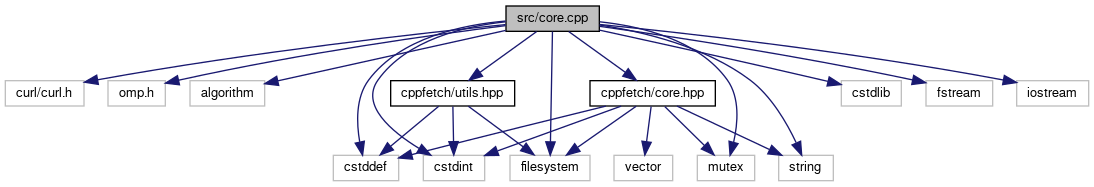
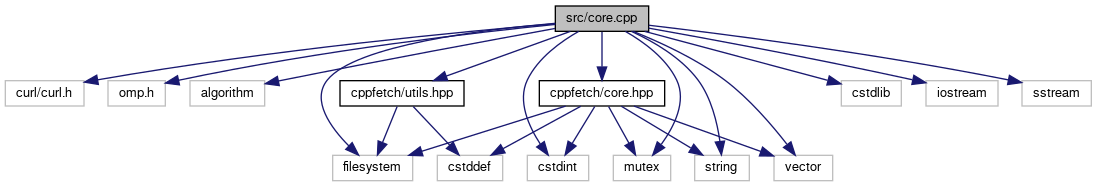
Update docs

diff --git a/docs/core_8hpp_source.html b/docs/core_8hpp_source.html
@@ -20,7 +20,7 @@
 <table cellspacing="0" cellpadding="0">
  <tbody>
  <tr style="height: 56px;">
-  <td id="projectlogo"><img alt="Logo" src="logo.svg"/></td>
+  <td id="projectlogo"><img alt="Logo" src="logo.png"/></td>
   <td id="projectalign" style="padding-left: 0.5em;">
    <div id="projectname">cppfetch
    </div>
@@ -71,59 +71,51 @@ $(function() {
 <div class="title">core.hpp</div>  </div>
 </div><!--header-->
 <div class="contents">
-<a href="core_8hpp.html">Go to the documentation of this file.</a><div class="fragment"><div class="line"><a name="l00001"></a><span class="lineno">    1</span>&#160;<span class="comment">// Altro?</span></div>
-<div class="line"><a name="l00002"></a><span class="lineno">    2</span>&#160; </div>
-<div class="line"><a name="l00003"></a><span class="lineno">    3</span>&#160;<span class="comment">// Finisci di settare IWYU</span></div>
-<div class="line"><a name="l00004"></a><span class="lineno">    4</span>&#160;<span class="comment">// Docs per README</span></div>
-<div class="line"><a name="l00005"></a><span class="lineno">    5</span>&#160;<span class="comment">// Altri file di sistema</span></div>
-<div class="line"><a name="l00006"></a><span class="lineno">    6</span>&#160;<span class="comment">// Zenodo</span></div>
-<div class="line"><a name="l00007"></a><span class="lineno">    7</span>&#160;<span class="comment">// progress bars</span></div>
-<div class="line"><a name="l00008"></a><span class="lineno">    8</span>&#160; </div>
-<div class="line"><a name="l00009"></a><span class="lineno">    9</span>&#160;<span class="preprocessor">#pragma once</span></div>
-<div class="line"><a name="l00010"></a><span class="lineno">   10</span>&#160;<span class="preprocessor">#ifndef CPPFETCH_CORE_HPP</span></div>
-<div class="line"><a name="l00011"></a><span class="lineno"><a class="line" href="core_8hpp.html#ae3b887eb3a86288db9953d2408d771b6">   11</a></span>&#160;<span class="preprocessor">#define CPPFETCH_CORE_HPP</span></div>
-<div class="line"><a name="l00012"></a><span class="lineno">   12</span>&#160; </div>
-<div class="line"><a name="l00013"></a><span class="lineno">   13</span>&#160;<span class="preprocessor">#include &lt;cstddef&gt;</span></div>
-<div class="line"><a name="l00014"></a><span class="lineno">   14</span>&#160;<span class="preprocessor">#include &lt;cstdint&gt;</span></div>
-<div class="line"><a name="l00015"></a><span class="lineno">   15</span>&#160;<span class="preprocessor">#include &lt;filesystem&gt;</span></div>
-<div class="line"><a name="l00016"></a><span class="lineno">   16</span>&#160;<span class="preprocessor">#include &lt;mutex&gt;</span></div>
-<div class="line"><a name="l00017"></a><span class="lineno">   17</span>&#160;<span class="preprocessor">#include &lt;string&gt;</span></div>
-<div class="line"><a name="l00018"></a><span class="lineno">   18</span>&#160;<span class="preprocessor">#include &lt;vector&gt;</span></div>
-<div class="line"><a name="l00019"></a><span class="lineno">   19</span>&#160; </div>
-<div class="line"><a name="l00020"></a><span class="lineno">   20</span>&#160;<span class="keyword">namespace </span><a class="code" href="namespacecppfetch.html">cppfetch</a> {</div>
-<div class="line"><a name="l00021"></a><span class="lineno"><a class="line" href="classcppfetch_1_1cppfetch.html">   21</a></span>&#160;    <span class="keyword">class </span><a class="code" href="namespacecppfetch.html">cppfetch</a> {</div>
-<div class="line"><a name="l00022"></a><span class="lineno">   22</span>&#160;        <span class="keyword">public</span>:</div>
-<div class="line"><a name="l00023"></a><span class="lineno">   23</span>&#160; </div>
-<div class="line"><a name="l00024"></a><span class="lineno">   24</span>&#160;            <span class="comment">// Constructors</span></div>
-<div class="line"><a name="l00025"></a><span class="lineno">   25</span>&#160;            <span class="keyword">explicit</span> <a class="code" href="namespacecppfetch.html">cppfetch</a>();</div>
+<a href="core_8hpp.html">Go to the documentation of this file.</a><div class="fragment"><div class="line"><a name="l00001"></a><span class="lineno">    1</span>&#160;<span class="preprocessor">#pragma once</span></div>
+<div class="line"><a name="l00002"></a><span class="lineno">    2</span>&#160;<span class="preprocessor">#ifndef CPPFETCH_CORE_HPP</span></div>
+<div class="line"><a name="l00003"></a><span class="lineno"><a class="line" href="core_8hpp.html#ae3b887eb3a86288db9953d2408d771b6">    3</a></span>&#160;<span class="preprocessor">#define CPPFETCH_CORE_HPP</span></div>
+<div class="line"><a name="l00004"></a><span class="lineno">    4</span>&#160; </div>
+<div class="line"><a name="l00005"></a><span class="lineno">    5</span>&#160;<span class="preprocessor">#include &lt;cstddef&gt;</span></div>
+<div class="line"><a name="l00006"></a><span class="lineno">    6</span>&#160;<span class="preprocessor">#include &lt;cstdint&gt;</span></div>
+<div class="line"><a name="l00007"></a><span class="lineno">    7</span>&#160;<span class="preprocessor">#include &lt;filesystem&gt;</span></div>
+<div class="line"><a name="l00008"></a><span class="lineno">    8</span>&#160;<span class="preprocessor">#include &lt;mutex&gt;</span></div>
+<div class="line"><a name="l00009"></a><span class="lineno">    9</span>&#160;<span class="preprocessor">#include &lt;string&gt;</span></div>
+<div class="line"><a name="l00010"></a><span class="lineno">   10</span>&#160;<span class="preprocessor">#include &lt;vector&gt;</span></div>
+<div class="line"><a name="l00011"></a><span class="lineno">   11</span>&#160; </div>
+<div class="line"><a name="l00012"></a><span class="lineno">   12</span>&#160;<span class="keyword">namespace </span><a class="code" href="namespacecppfetch.html">cppfetch</a> {</div>
+<div class="line"><a name="l00013"></a><span class="lineno"><a class="line" href="classcppfetch_1_1cppfetch.html">   13</a></span>&#160;    <span class="keyword">class </span><a class="code" href="namespacecppfetch.html">cppfetch</a> {</div>
+<div class="line"><a name="l00014"></a><span class="lineno">   14</span>&#160;        <span class="keyword">public</span>:</div>
+<div class="line"><a name="l00015"></a><span class="lineno">   15</span>&#160; </div>
+<div class="line"><a name="l00016"></a><span class="lineno">   16</span>&#160;            <span class="comment">// Constructors</span></div>
+<div class="line"><a name="l00017"></a><span class="lineno">   17</span>&#160;            <span class="keyword">explicit</span> <a class="code" href="namespacecppfetch.html">cppfetch</a>();</div>
+<div class="line"><a name="l00018"></a><span class="lineno">   18</span>&#160; </div>
+<div class="line"><a name="l00019"></a><span class="lineno">   19</span>&#160;            <span class="comment">// Getters</span></div>
+<div class="line"><a name="l00020"></a><span class="lineno">   20</span>&#160;            <span class="keyword">const</span> std::vector&lt;std::string&gt;&amp; get_files_list() <span class="keyword">const</span>;</div>
+<div class="line"><a name="l00021"></a><span class="lineno">   21</span>&#160;            int16_t get_n_threads() <span class="keyword">const</span>;</div>
+<div class="line"><a name="l00022"></a><span class="lineno">   22</span>&#160; </div>
+<div class="line"><a name="l00023"></a><span class="lineno">   23</span>&#160;            <span class="comment">// Setters</span></div>
+<div class="line"><a name="l00024"></a><span class="lineno">   24</span>&#160;            <span class="keywordtype">void</span> set_verbose(<span class="keywordtype">bool</span> flag);</div>
+<div class="line"><a name="l00025"></a><span class="lineno">   25</span>&#160;            <span class="keywordtype">void</span> set_n_threads(int16_t n_threads_mod);</div>
 <div class="line"><a name="l00026"></a><span class="lineno">   26</span>&#160; </div>
-<div class="line"><a name="l00027"></a><span class="lineno">   27</span>&#160;            <span class="comment">// Getters</span></div>
-<div class="line"><a name="l00028"></a><span class="lineno">   28</span>&#160;            <span class="keyword">const</span> std::vector&lt;std::string&gt;&amp; get_files_list() <span class="keyword">const</span>;</div>
-<div class="line"><a name="l00029"></a><span class="lineno">   29</span>&#160;            int16_t get_n_threads() <span class="keyword">const</span>;</div>
-<div class="line"><a name="l00030"></a><span class="lineno">   30</span>&#160; </div>
-<div class="line"><a name="l00031"></a><span class="lineno">   31</span>&#160;            <span class="comment">// Setters</span></div>
-<div class="line"><a name="l00032"></a><span class="lineno">   32</span>&#160;            <span class="keywordtype">void</span> set_verbose(<span class="keywordtype">bool</span> flag);</div>
-<div class="line"><a name="l00033"></a><span class="lineno">   33</span>&#160;            <span class="keywordtype">void</span> set_n_threads(int16_t n_threads_mod);</div>
+<div class="line"><a name="l00027"></a><span class="lineno">   27</span>&#160;            <span class="comment">// Methods</span></div>
+<div class="line"><a name="l00028"></a><span class="lineno">   28</span>&#160;            <span class="keywordtype">void</span> download_single_file(<span class="keyword">const</span> std::string&amp; file_url,</div>
+<div class="line"><a name="l00029"></a><span class="lineno">   29</span>&#160;                                      <span class="keyword">const</span> std::filesystem::path&amp; path_to_save = <span class="stringliteral">&quot;&quot;</span>) <span class="keyword">const</span>;</div>
+<div class="line"><a name="l00030"></a><span class="lineno">   30</span>&#160;            <span class="keywordtype">void</span> add_file(<span class="keyword">const</span> std::string&amp; file);</div>
+<div class="line"><a name="l00031"></a><span class="lineno">   31</span>&#160;            <span class="keywordtype">bool</span> is_verbose() <span class="keyword">const</span>;</div>
+<div class="line"><a name="l00032"></a><span class="lineno">   32</span>&#160;            <span class="keywordtype">void</span> remove_file(<span class="keyword">const</span> std::string&amp; file);</div>
+<div class="line"><a name="l00033"></a><span class="lineno">   33</span>&#160;            <span class="keywordtype">void</span> download_all(<span class="keyword">const</span> std::filesystem::path&amp; path_to_save = <span class="stringliteral">&quot;&quot;</span>, <span class="keywordtype">bool</span> parallelize = <span class="keyword">true</span>) <span class="keyword">const</span>;</div>
 <div class="line"><a name="l00034"></a><span class="lineno">   34</span>&#160; </div>
-<div class="line"><a name="l00035"></a><span class="lineno">   35</span>&#160;            <span class="comment">// Methods</span></div>
-<div class="line"><a name="l00036"></a><span class="lineno">   36</span>&#160;            <span class="keywordtype">void</span> download_single_file(<span class="keyword">const</span> std::string&amp; file_url,</div>
-<div class="line"><a name="l00037"></a><span class="lineno">   37</span>&#160;                                      <span class="keyword">const</span> std::filesystem::path&amp; path_to_save = <span class="stringliteral">&quot;&quot;</span>) <span class="keyword">const</span>;</div>
-<div class="line"><a name="l00038"></a><span class="lineno">   38</span>&#160;            <span class="keywordtype">void</span> add_file(<span class="keyword">const</span> std::string&amp; file);</div>
-<div class="line"><a name="l00039"></a><span class="lineno">   39</span>&#160;            <span class="keywordtype">bool</span> is_verbose() <span class="keyword">const</span>;</div>
-<div class="line"><a name="l00040"></a><span class="lineno">   40</span>&#160;            <span class="keywordtype">void</span> remove_file(<span class="keyword">const</span> std::string&amp; file);</div>
-<div class="line"><a name="l00041"></a><span class="lineno">   41</span>&#160;            <span class="keywordtype">void</span> download_all(<span class="keyword">const</span> std::filesystem::path&amp; path_to_save = <span class="stringliteral">&quot;&quot;</span>, <span class="keywordtype">bool</span> parallelize = <span class="keyword">true</span>) <span class="keyword">const</span>;</div>
-<div class="line"><a name="l00042"></a><span class="lineno">   42</span>&#160; </div>
-<div class="line"><a name="l00043"></a><span class="lineno">   43</span>&#160;        <span class="keyword">private</span>:</div>
+<div class="line"><a name="l00035"></a><span class="lineno">   35</span>&#160;        <span class="keyword">private</span>:</div>
+<div class="line"><a name="l00036"></a><span class="lineno">   36</span>&#160; </div>
+<div class="line"><a name="l00037"></a><span class="lineno">   37</span>&#160;            <span class="comment">// Members</span></div>
+<div class="line"><a name="l00038"></a><span class="lineno">   38</span>&#160;            std::vector&lt;std::string&gt; files_list;</div>
+<div class="line"><a name="l00039"></a><span class="lineno">   39</span>&#160;            int16_t n_threads;</div>
+<div class="line"><a name="l00040"></a><span class="lineno">   40</span>&#160;            <span class="keywordtype">bool</span> verbose;</div>
+<div class="line"><a name="l00041"></a><span class="lineno">   41</span>&#160;            <span class="keyword">mutable</span> std::mutex mutex;</div>
+<div class="line"><a name="l00042"></a><span class="lineno">   42</span>&#160;    };</div>
+<div class="line"><a name="l00043"></a><span class="lineno">   43</span>&#160;}  <span class="comment">// namespace cppfetch</span></div>
 <div class="line"><a name="l00044"></a><span class="lineno">   44</span>&#160; </div>
-<div class="line"><a name="l00045"></a><span class="lineno">   45</span>&#160;            <span class="comment">// Members</span></div>
-<div class="line"><a name="l00046"></a><span class="lineno">   46</span>&#160;            std::vector&lt;std::string&gt; files_list;</div>
-<div class="line"><a name="l00047"></a><span class="lineno">   47</span>&#160;            int16_t n_threads;</div>
-<div class="line"><a name="l00048"></a><span class="lineno">   48</span>&#160;            <span class="keywordtype">bool</span> verbose;</div>
-<div class="line"><a name="l00049"></a><span class="lineno">   49</span>&#160;            <span class="keyword">mutable</span> std::mutex mutex;</div>
-<div class="line"><a name="l00050"></a><span class="lineno">   50</span>&#160;    };</div>
-<div class="line"><a name="l00051"></a><span class="lineno">   51</span>&#160;}  <span class="comment">// namespace cppfetch</span></div>
-<div class="line"><a name="l00052"></a><span class="lineno">   52</span>&#160; </div>
-<div class="line"><a name="l00053"></a><span class="lineno">   53</span>&#160;<span class="preprocessor">#endif</span></div>
+<div class="line"><a name="l00045"></a><span class="lineno">   45</span>&#160;<span class="preprocessor">#endif</span></div>
 <div class="ttc" id="anamespacecppfetch_html"><div class="ttname"><a href="namespacecppfetch.html">cppfetch</a></div><div class="ttdef"><b>Definition:</b> core.cpp:16</div></div>
 </div><!-- fragment --></div><!-- contents -->
 <!-- start footer part -->

diff --git a/docs/utils_8hpp_source.html b/docs/utils_8hpp_source.html
@@ -20,7 +20,7 @@
 <table cellspacing="0" cellpadding="0">
  <tbody>
  <tr style="height: 56px;">
-  <td id="projectlogo"><img alt="Logo" src="logo.svg"/></td>
+  <td id="projectlogo"><img alt="Logo" src="logo.png"/></td>
   <td id="projectalign" style="padding-left: 0.5em;">
    <div id="projectname">cppfetch
    </div>
@@ -76,16 +76,15 @@ $(function() {
 <div class="line"><a name="l00003"></a><span class="lineno"><a class="line" href="utils_8hpp.html#a7d482015c161d57121fb19b1080fed67">    3</a></span>&#160;<span class="preprocessor">#define CPPFETCH_UTILS_HPP</span></div>
 <div class="line"><a name="l00004"></a><span class="lineno">    4</span>&#160; </div>
 <div class="line"><a name="l00005"></a><span class="lineno">    5</span>&#160;<span class="preprocessor">#include &lt;cstddef&gt;</span></div>
-<div class="line"><a name="l00006"></a><span class="lineno">    6</span>&#160;<span class="preprocessor">#include &lt;cstdint&gt;</span></div>
-<div class="line"><a name="l00007"></a><span class="lineno">    7</span>&#160;<span class="preprocessor">#include &lt;filesystem&gt;</span></div>
-<div class="line"><a name="l00008"></a><span class="lineno">    8</span>&#160; </div>
-<div class="line"><a name="l00009"></a><span class="lineno">    9</span>&#160;<span class="keyword">namespace </span><a class="code" href="namespacecppfetch.html">cppfetch</a> {</div>
-<div class="line"><a name="l00010"></a><span class="lineno">   10</span>&#160;    <span class="keyword">extern</span> <span class="keywordtype">size_t</span> <a class="code" href="namespacecppfetch.html#a7387b553972f3ebe1103805440a0752a">write_callback</a>(<span class="keywordtype">void</span>* contents, <span class="keywordtype">size_t</span> size, <span class="keywordtype">size_t</span> nmemb, std::filesystem::path* file_path);</div>
-<div class="line"><a name="l00011"></a><span class="lineno">   11</span>&#160;}  <span class="comment">// namespace cppfetch</span></div>
-<div class="line"><a name="l00012"></a><span class="lineno">   12</span>&#160; </div>
-<div class="line"><a name="l00013"></a><span class="lineno">   13</span>&#160;<span class="preprocessor">#endif</span></div>
+<div class="line"><a name="l00006"></a><span class="lineno">    6</span>&#160;<span class="preprocessor">#include &lt;filesystem&gt;</span></div>
+<div class="line"><a name="l00007"></a><span class="lineno">    7</span>&#160; </div>
+<div class="line"><a name="l00008"></a><span class="lineno">    8</span>&#160;<span class="keyword">namespace </span><a class="code" href="namespacecppfetch.html">cppfetch</a> {</div>
+<div class="line"><a name="l00009"></a><span class="lineno">    9</span>&#160;    <span class="keyword">extern</span> <span class="keywordtype">size_t</span> <a class="code" href="namespacecppfetch.html#a7387b553972f3ebe1103805440a0752a">write_callback</a>(<span class="keywordtype">void</span>* contents, <span class="keywordtype">size_t</span> size, <span class="keywordtype">size_t</span> nmemb, std::filesystem::path* file_path);</div>
+<div class="line"><a name="l00010"></a><span class="lineno">   10</span>&#160;}  <span class="comment">// namespace cppfetch</span></div>
+<div class="line"><a name="l00011"></a><span class="lineno">   11</span>&#160; </div>
+<div class="line"><a name="l00012"></a><span class="lineno">   12</span>&#160;<span class="preprocessor">#endif</span></div>
 <div class="ttc" id="anamespacecppfetch_html"><div class="ttname"><a href="namespacecppfetch.html">cppfetch</a></div><div class="ttdef"><b>Definition:</b> core.cpp:16</div></div>
-<div class="ttc" id="anamespacecppfetch_html_a7387b553972f3ebe1103805440a0752a"><div class="ttname"><a href="namespacecppfetch.html#a7387b553972f3ebe1103805440a0752a">cppfetch::write_callback</a></div><div class="ttdeci">size_t write_callback(void *contents, size_t size, size_t nmemb, std::filesystem::path *file_path)</div><div class="ttdoc">Callback function for writing downloaded data to file.</div><div class="ttdef"><b>Definition:</b> utils.cpp:17</div></div>
+<div class="ttc" id="anamespacecppfetch_html_a7387b553972f3ebe1103805440a0752a"><div class="ttname"><a href="namespacecppfetch.html#a7387b553972f3ebe1103805440a0752a">cppfetch::write_callback</a></div><div class="ttdeci">size_t write_callback(void *contents, size_t size, size_t nmemb, std::filesystem::path *file_path)</div><div class="ttdoc">Callback function for writing downloaded data to file.</div><div class="ttdef"><b>Definition:</b> utils.cpp:19</div></div>
 </div><!-- fragment --></div><!-- contents -->
 <!-- start footer part -->
 <hr class="footer"/><address class="footer"><small>

diff --git a/docs/core_8cpp.html b/docs/core_8cpp.html
@@ -20,7 +20,7 @@
 <table cellspacing="0" cellpadding="0">
  <tbody>
  <tr style="height: 56px;">
-  <td id="projectlogo"><img alt="Logo" src="logo.svg"/></td>
+  <td id="projectlogo"><img alt="Logo" src="logo.png"/></td>
   <td id="projectalign" style="padding-left: 0.5em;">
    <div id="projectname">cppfetch
    </div>
@@ -78,34 +78,34 @@ $(function() {
 <code>#include &lt;algorithm&gt;</code><br />
 <code>#include &lt;<a class="el" href="core_8hpp_source.html">cppfetch/core.hpp</a>&gt;</code><br />
 <code>#include &lt;<a class="el" href="utils_8hpp_source.html">cppfetch/utils.hpp</a>&gt;</code><br />
-<code>#include &lt;cstddef&gt;</code><br />
 <code>#include &lt;cstdint&gt;</code><br />
 <code>#include &lt;cstdlib&gt;</code><br />
 <code>#include &lt;filesystem&gt;</code><br />
-<code>#include &lt;fstream&gt;</code><br />
 <code>#include &lt;iostream&gt;</code><br />
 <code>#include &lt;mutex&gt;</code><br />
+<code>#include &lt;sstream&gt;</code><br />
 <code>#include &lt;string&gt;</code><br />
+<code>#include &lt;vector&gt;</code><br />
 </div><div class="textblock"><div class="dynheader">
 Include dependency graph for core.cpp:</div>
 <div class="dyncontent">
 <div class="center"><img src="core_8cpp__incl.png" border="0" usemap="#asrc_2core_8cpp" alt=""/></div>
 <map name="asrc_2core_8cpp" id="asrc_2core_8cpp">
-<area shape="rect" title=" " alt="" coords="506,5,599,32"/>
+<area shape="rect" title=" " alt="" coords="555,5,649,32"/>
 <area shape="rect" title=" " alt="" coords="5,80,84,107"/>
 <area shape="rect" title=" " alt="" coords="108,80,165,107"/>
 <area shape="rect" title=" " alt="" coords="190,80,265,107"/>
-<area shape="rect" href="core_8hpp.html" title=" " alt="" coords="590,80,715,107"/>
-<area shape="rect" title=" " alt="" coords="333,155,399,181"/>
-<area shape="rect" title=" " alt="" coords="423,155,485,181"/>
-<area shape="rect" title=" " alt="" coords="510,155,590,181"/>
-<area shape="rect" title=" " alt="" coords="697,155,755,181"/>
-<area shape="rect" title=" " alt="" coords="779,155,833,181"/>
-<area shape="rect" href="utils_8hpp.html" title=" " alt="" coords="391,80,515,107"/>
+<area shape="rect" href="core_8hpp.html" title=" " alt="" coords="539,80,665,107"/>
+<area shape="rect" title=" " alt="" coords="527,155,589,181"/>
+<area shape="rect" title=" " alt="" coords="333,155,413,181"/>
+<area shape="rect" title=" " alt="" coords="613,155,671,181"/>
+<area shape="rect" title=" " alt="" coords="695,155,749,181"/>
+<area shape="rect" title=" " alt="" coords="774,155,833,181"/>
+<area shape="rect" href="utils_8hpp.html" title=" " alt="" coords="340,80,464,107"/>
 <area shape="rect" title=" " alt="" coords="841,80,901,107"/>
-<area shape="rect" title=" " alt="" coords="926,80,993,107"/>
-<area shape="rect" title=" " alt="" coords="1017,80,1089,107"/>
-<area shape="rect" title=" " alt="" coords="614,155,673,181"/>
+<area shape="rect" title=" " alt="" coords="926,80,998,107"/>
+<area shape="rect" title=" " alt="" coords="1022,80,1091,107"/>
+<area shape="rect" title=" " alt="" coords="437,155,503,181"/>
 </map>
 </div>
 </div><table class="memberdecls">

diff --git a/docs/utils_8cpp.html b/docs/utils_8cpp.html
@@ -20,7 +20,7 @@
 <table cellspacing="0" cellpadding="0">
  <tbody>
  <tr style="height: 56px;">
-  <td id="projectlogo"><img alt="Logo" src="logo.svg"/></td>
+  <td id="projectlogo"><img alt="Logo" src="logo.png"/></td>
   <td id="projectalign" style="padding-left: 0.5em;">
    <div id="projectname">cppfetch
    </div>
@@ -76,21 +76,24 @@ $(function() {
 <div class="contents">
 <div class="textblock"><code>#include &lt;<a class="el" href="utils_8hpp_source.html">cppfetch/utils.hpp</a>&gt;</code><br />
 <code>#include &lt;cstddef&gt;</code><br />
+<code>#include &lt;cstdlib&gt;</code><br />
 <code>#include &lt;filesystem&gt;</code><br />
 <code>#include &lt;fstream&gt;</code><br />
 <code>#include &lt;iostream&gt;</code><br />
+<code>#include &lt;string&gt;</code><br />
 </div><div class="textblock"><div class="dynheader">
 Include dependency graph for utils.cpp:</div>
 <div class="dyncontent">
 <div class="center"><img src="utils_8cpp__incl.png" border="0" usemap="#asrc_2utils_8cpp" alt=""/></div>
 <map name="asrc_2utils_8cpp" id="asrc_2utils_8cpp">
-<area shape="rect" title=" " alt="" coords="185,5,277,32"/>
-<area shape="rect" href="utils_8hpp.html" title=" " alt="" coords="69,80,193,107"/>
+<area shape="rect" title=" " alt="" coords="209,5,301,32"/>
+<area shape="rect" href="utils_8hpp.html" title=" " alt="" coords="25,80,149,107"/>
 <area shape="rect" title=" " alt="" coords="5,155,71,181"/>
-<area shape="rect" title=" " alt="" coords="189,155,269,181"/>
-<area shape="rect" title=" " alt="" coords="269,80,335,107"/>
-<area shape="rect" title=" " alt="" coords="359,80,431,107"/>
-<area shape="rect" title=" " alt="" coords="101,155,162,181"/>
+<area shape="rect" title=" " alt="" coords="97,155,177,181"/>
+<area shape="rect" title=" " alt="" coords="225,80,285,107"/>
+<area shape="rect" title=" " alt="" coords="310,80,377,107"/>
+<area shape="rect" title=" " alt="" coords="401,80,473,107"/>
+<area shape="rect" title=" " alt="" coords="497,80,552,107"/>
 </map>
 </div>
 </div><table class="memberdecls">

diff --git a/docs/utils_8hpp.html b/docs/utils_8hpp.html
@@ -20,7 +20,7 @@
 <table cellspacing="0" cellpadding="0">
  <tbody>
  <tr style="height: 56px;">
-  <td id="projectlogo"><img alt="Logo" src="logo.svg"/></td>
+  <td id="projectlogo"><img alt="Logo" src="logo.png"/></td>
   <td id="projectalign" style="padding-left: 0.5em;">
    <div id="projectname">cppfetch
    </div>
@@ -76,17 +76,15 @@ $(function() {
 </div><!--header-->
 <div class="contents">
 <div class="textblock"><code>#include &lt;cstddef&gt;</code><br />
-<code>#include &lt;cstdint&gt;</code><br />
 <code>#include &lt;filesystem&gt;</code><br />
 </div><div class="textblock"><div class="dynheader">
 Include dependency graph for utils.hpp:</div>
 <div class="dyncontent">
 <div class="center"><img src="utils_8hpp__incl.png" border="0" usemap="#ainclude_2cppfetch_2utils_8hpp" alt=""/></div>
 <map name="ainclude_2cppfetch_2utils_8hpp" id="ainclude_2cppfetch_2utils_8hpp">
-<area shape="rect" title=" " alt="" coords="41,5,211,32"/>
-<area shape="rect" title=" " alt="" coords="5,80,71,107"/>
-<area shape="rect" title=" " alt="" coords="95,80,157,107"/>
-<area shape="rect" title=" " alt="" coords="181,80,261,107"/>
+<area shape="rect" title=" " alt="" coords="5,5,175,32"/>
+<area shape="rect" title=" " alt="" coords="9,80,75,107"/>
+<area shape="rect" title=" " alt="" coords="99,80,179,107"/>
 </map>
 </div>
 </div><div class="textblock"><div class="dynheader">

diff --git a/docs/annotated.html b/docs/annotated.html
@@ -20,7 +20,7 @@
 <table cellspacing="0" cellpadding="0">
  <tbody>
  <tr style="height: 56px;">
-  <td id="projectlogo"><img alt="Logo" src="logo.svg"/></td>
+  <td id="projectlogo"><img alt="Logo" src="logo.png"/></td>
   <td id="projectalign" style="padding-left: 0.5em;">
    <div id="projectname">cppfetch
    </div>

diff --git a/docs/classcppfetch_1_1cppfetch-members.html b/docs/classcppfetch_1_1cppfetch-members.html
@@ -20,7 +20,7 @@
 <table cellspacing="0" cellpadding="0">
  <tbody>
  <tr style="height: 56px;">
-  <td id="projectlogo"><img alt="Logo" src="logo.svg"/></td>
+  <td id="projectlogo"><img alt="Logo" src="logo.png"/></td>
   <td id="projectalign" style="padding-left: 0.5em;">
    <div id="projectname">cppfetch
    </div>

diff --git a/docs/classcppfetch_1_1cppfetch.html b/docs/classcppfetch_1_1cppfetch.html
@@ -20,7 +20,7 @@
 <table cellspacing="0" cellpadding="0">
  <tbody>
  <tr style="height: 56px;">
-  <td id="projectlogo"><img alt="Logo" src="logo.svg"/></td>
+  <td id="projectlogo"><img alt="Logo" src="logo.png"/></td>
   <td id="projectalign" style="padding-left: 0.5em;">
    <div id="projectname">cppfetch
    </div>

diff --git a/docs/classes.html b/docs/classes.html
@@ -20,7 +20,7 @@
 <table cellspacing="0" cellpadding="0">
  <tbody>
  <tr style="height: 56px;">
-  <td id="projectlogo"><img alt="Logo" src="logo.svg"/></td>
+  <td id="projectlogo"><img alt="Logo" src="logo.png"/></td>
   <td id="projectalign" style="padding-left: 0.5em;">
    <div id="projectname">cppfetch
    </div>

diff --git a/docs/core_8hpp.html b/docs/core_8hpp.html
@@ -20,7 +20,7 @@
 <table cellspacing="0" cellpadding="0">
  <tbody>
  <tr style="height: 56px;">
-  <td id="projectlogo"><img alt="Logo" src="logo.svg"/></td>
+  <td id="projectlogo"><img alt="Logo" src="logo.png"/></td>
   <td id="projectalign" style="padding-left: 0.5em;">
    <div id="projectname">cppfetch
    </div>

diff --git a/docs/dir_000002_000000.html b/docs/dir_000002_000000.html
@@ -20,7 +20,7 @@
 <table cellspacing="0" cellpadding="0">
  <tbody>
  <tr style="height: 56px;">
-  <td id="projectlogo"><img alt="Logo" src="logo.svg"/></td>
+  <td id="projectlogo"><img alt="Logo" src="logo.png"/></td>
   <td id="projectalign" style="padding-left: 0.5em;">
    <div id="projectname">cppfetch
    </div>

diff --git a/docs/dir_68267d1309a1af8e8297ef4c3efbcdba.html b/docs/dir_68267d1309a1af8e8297ef4c3efbcdba.html
@@ -20,7 +20,7 @@
 <table cellspacing="0" cellpadding="0">
  <tbody>
  <tr style="height: 56px;">
-  <td id="projectlogo"><img alt="Logo" src="logo.svg"/></td>
+  <td id="projectlogo"><img alt="Logo" src="logo.png"/></td>
   <td id="projectalign" style="padding-left: 0.5em;">
    <div id="projectname">cppfetch
    </div>
